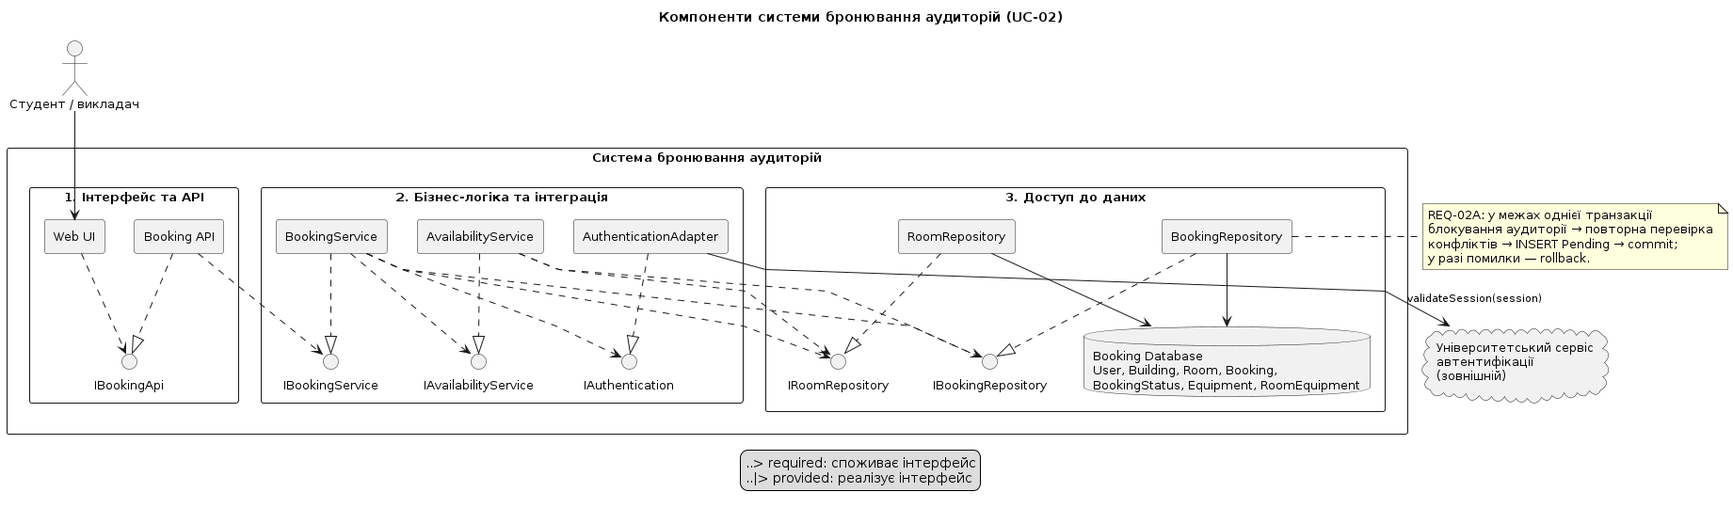
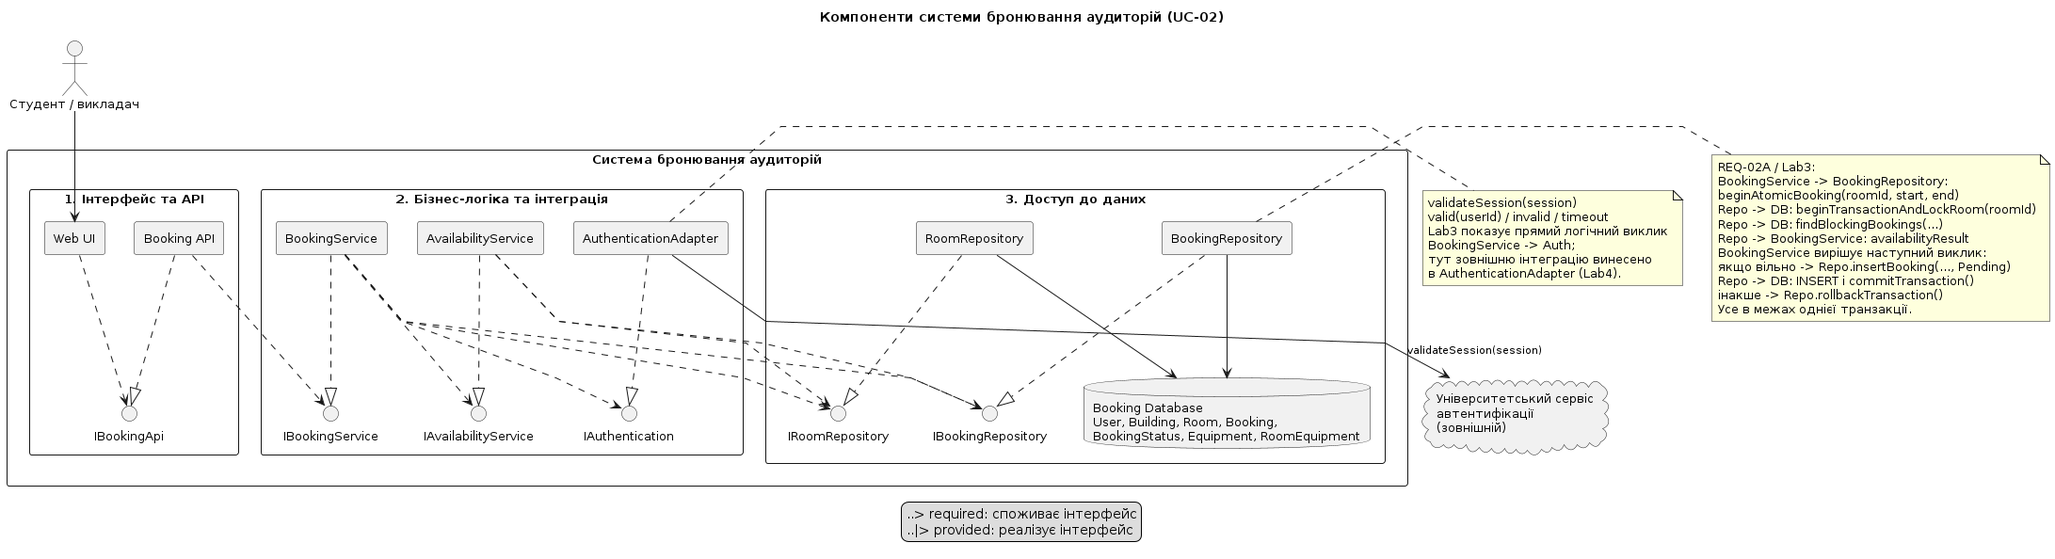
update AI usage documentation

diff --git a/lab5/spec.md b/lab5/spec.md
@@ -2,81 +2,58 @@
 
 **Студент:** Чакун Олександр  
 **Група:** ІМ-о51  
-**Тема:** Компонентна архітектура системи бронювання навчальних аудиторій
+**Предметна область:** бронювання навчальних аудиторій
 
-## 1. Призначення моделі
+## 1. Для чого потрібна діаграма
 
-У цій роботі розглядається архітектура системи бронювання навчальних аудиторій, яку я використовував у попередніх лабораторних. Основна задача — показати, на які компоненти розділена система, за що кожен із них відповідає та через які інтерфейси відбувається взаємодія. Для моделювання обрано UML Component Diagram у PlantUML.
+У завданні моделюється архітектура для UC-02 «Створити бронювання». Діаграма потрібна, щоб відокремити інтерфейс користувача, логіку бронювання, роботу з БД та зовнішню автентифікацію. Вона показує контракти між компонентами, а не реалізацію всіх методів.
 
-Головним прикладом є UC-02 — створення бронювання. Перед створенням нового запису система перевіряє користувача та доступність аудиторії на вибраний час. Нове бронювання має початковий статус `Pending`.
+## 2. Компоненти
 
-## 2. Компоненти та їхня відповідальність
-
-| Компонент | Призначення |
+| Компонент | Відповідальність |
 |---|---|
-| `Web UI` | Отримує дії студента або викладача, передає запити та відображає результат |
-| `Booking API` | Приймає звернення від інтерфейсу та передає їх до бізнес-логіки |
-| `BookingService` | Координує створення бронювання, автентифікацію, перевірку доступності та запис даних |
-| `AvailabilityService` | Перевіряє, чи не зайнята аудиторія в запитаний часовий інтервал |
-| `AuthenticationAdapter` | Звертається до зовнішнього університетського сервісу для перевірки сесії |
-| `BookingRepository` | Читає й записує бронювання; відповідає за атомарну повторну перевірку конфліктів та створення запису в одній транзакції |
-| `RoomRepository` | Надає дані про аудиторії з бази даних |
-| `Booking Database` | Зберігає сутності предметної області з першої лабораторної |
+| Web UI | Отримання даних від користувача й показ результату |
+| Booking API | Прийом запитів UI та передача їх сервісу |
+| BookingService | Керування UC-02: перевірка сесії, доступності, вибір гілки створення або відмови |
+| AvailabilityService | Попередня перевірка вільних аудиторій для пошуку |
+| AuthenticationAdapter | Виклик зовнішнього університетського сервісу автентифікації |
+| BookingRepository | Початок транзакції, блокування аудиторії, повторна перевірка, INSERT, commit/rollback |
+| RoomRepository | Читання інформації про аудиторії |
+| Booking Database | Збереження User, Building, Room, Booking, BookingStatus, Equipment, RoomEquipment |
 
-`Booking Database` містить `User`, `Building`, `Room`, `Booking`, `BookingStatus`, `Equipment` і `RoomEquipment`. Сервіси не звертаються до таблиць напряму: для цього використовуються репозиторії.
+Користувач працює через Web UI. Зовнішній університетський сервіс автентифікації перебуває за межею нашої системи.
 
-## 3. Інтерфейси та залежності
+## 3. Інтерфейси
 
-Інтерфейси на діаграмі представлені окремими UML-елементами `interface`. Компонент, який реалізує контракт, з’єднано з інтерфейсом зв’язком реалізації `..|>` (*provided*). Компонент, якому потрібен контракт, використовує залежність `..>` (*required*).
-
-| Інтерфейс | Хто використовує | Хто надає |
+| Контракт | Надає (provided) | Використовує (required) |
 |---|---|---|
-| `IBookingApi` | `Web UI` | `Booking API` |
-| `IBookingService` | `Booking API` | `BookingService` |
-| `IAvailabilityService` | `BookingService` | `AvailabilityService` |
-| `IAuthentication` | `BookingService` | `AuthenticationAdapter` |
-| `IBookingRepository` | `BookingService`, `AvailabilityService` | `BookingRepository` |
-| `IRoomRepository` | `AvailabilityService`, `BookingService` | `RoomRepository` |
+| `IBookingApi` | Booking API | Web UI |
+| `IBookingService` | BookingService | Booking API |
+| `IAvailabilityService` | AvailabilityService | BookingService |
+| `IAuthentication` | AuthenticationAdapter | BookingService |
+| `IBookingRepository` | BookingRepository | BookingService, AvailabilityService |
+| `IRoomRepository` | RoomRepository | BookingService, AvailabilityService |
 
-Залежності `..>` спрямовані від компонентів, які потребують функції, до відповідних інтерфейсів. Зв’язки реалізації `..|>` вказують, який компонент надає контракт. Конкретні методи кожного інтерфейсу на цьому етапі не деталізуються: завдання полягає в моделюванні архітектурних меж.
+У PlantUML `..|>` позначає реалізацію контракту (provided), а `..>` — залежність від контракту (required).
 
-## 4. Межа системи та зовнішня інтеграція
+## 4. Як проходить UC-02
 
-У прямокутнику «Система бронювання аудиторій» знаходяться власні компоненти застосунку та база даних. Студент або викладач взаємодіє із системою через `Web UI`.
+Після підтвердження даних `BookingService` перевіряє сесію через `IAuthentication`. `AuthenticationAdapter` викликає `validateSession(session)` і повертає `valid(userId)`, `invalid` або `timeout`. При відмові чи тайм-ауті бронювання не створюється.
 
-Університетський сервіс автентифікації розташований **поза межею системи**, оскільки його робота не належить до внутрішньої реалізації бронювання. `AuthenticationAdapter` надсилає `validateSession(session)` та обробляє результати `valid(userId)`, `invalid` або `timeout`. Так бізнес-логіка не залежить безпосередньо від деталей зовнішнього сервісу.
+Попередній пошук доступних аудиторій не резервує місце. Для підтвердження `BookingService` викликає `BookingRepository.beginAtomicBooking(roomId, start, end)`. Репозиторій виконує `beginTransactionAndLockRoom(roomId)` та `findBlockingBookings(...)`, повертаючи `availabilityResult`. Якщо вільно, `BookingService` окремо викликає `insertBooking(..., Pending)`, після чого репозиторій записує бронювання й виконує commit. Якщо конфлікт — `BookingService` викликає `rollbackTransaction()`. Це відповідає послідовності Lab3, а не єдиній операції `createBookingAtomically(...)`.
 
-## 5. Як створюється бронювання
+Блокуючі статуси визначаються через `BookingStatus.blocks_room`. Інтервали часу трактуються як `[start, end)`: 10:00–11:00 і 11:00–12:00 не конфліктують. Блокування рядка Room — один із можливих способів виконати REQ-02A, а не вибір конкретної СУБД.
 
-1. Користувач вибирає аудиторію та час у `Web UI`.
-2. `Web UI` передає запит через `Booking API` до `BookingService`.
-3. `BookingService` використовує `AuthenticationAdapter` для перевірки сесії.
-4. `AvailabilityService` перевіряє доступність через репозиторії. Враховуються бронювання, статус яких має `BookingStatus.blocks_room = true`.
-5. `BookingService` викликає `BookingRepository.createBookingAtomically(userId, roomId, start, end, Pending)`. Репозиторій у межах **однієї транзакції** блокує відповідну аудиторію, повторно перевіряє блокуючі бронювання і лише за відсутності конфлікту створює `Booking` зі статусом `Pending`. Якщо конфлікт є, транзакція скасовується, а новий запис не створюється.
-6. Результат повертається користувачу через API та інтерфейс.
+## 5. Критерії прийняття
 
-`AvailabilityService` використовується для попередньої перевірки доступності, але її результат **не замінює** фінальну перевірку в транзакції репозиторію. `BookingService` координує процес, а `BookingRepository` забезпечує атомарність збереження. Обрано модель блокування запису `Room` як приклад можливої реалізації; конкретна СУБД у завданні не визначена.
+- Є всі основні компоненти, БД і зовнішня система за межею застосунку.
+- Шість інтерфейсів мають одного постачальника та явних споживачів.
+- Створення бронювання у Lab5 узгоджується з викликами Lab3.
+- Уточнені результати автентифікації з Lab4.
+- БД охоплює сутності з Lab1, включно з Building.
+- Для REQ-02A повторна перевірка та запис залишаються в одній транзакції.
+- `components.puml` компілюється в PlantUML, а `components.png` згенерований із тієї ж версії файлу.
 
-Для перевірки перетину часових проміжків використовується підхід із Lab2: суміжні інтервали, наприклад 10:00–11:00 і 11:00–12:00, не конфліктують.
+## 6. Межі моделі
 
-## 6. Узгодженість із попередніми лабораторними
-
-- **Lab1 (ER-модель):** база даних містить ті самі сутності; власник бронювання визначається через `Booking.user_id`, а блокування — через `BookingStatus.blocks_room`.
-- **Lab2 (вимоги та Use Cases):** `BookingService` підтримує UC-02 та повторну перевірку доступності з REQ-02A. Окремий `AvailabilityService` відповідає за перевірку конфліктів.
-- **Lab3 (Sequence Diagram):** взаємодія UI, сервісу бронювання, репозиторіїв і БД зберігає ту саму послідовність відповідальностей; окремо показано зовнішню перевірку користувача.
-- **Lab4 (Activity Diagram):** архітектура дозволяє виконати перевірки, обробити відмову або тайм-аут автентифікації та завершити процес без створення `Booking`, якщо умови не виконані.
-
-## 7. Обґрунтування поділу на компоненти
-
-Я розділив бізнес-логіку та роботу з базою даних, щоб правила бронювання не залежали від конкретних SQL-запитів. Перевірку доступності виніс в окремий сервіс, оскільки вона потрібна не тільки під час створення бронювання, а й під час пошуку аудиторій. Для зовнішньої автентифікації використав адаптер, щоб у решті системи був один зрозумілий інтерфейс взаємодії.
-
-Такий поділ робить залежності між частинами системи чіткішими. Водночас ця діаграма є архітектурною моделлю, а не готовою реалізацією: конкретні технології бази даних, розгортання компонентів та детальні сигнатури методів тут не визначаються.
-
-## 8. Рішення за AUD-03
-
-У попередній версії діаграми було незрозуміло, хто саме відповідає за атомарність повторної перевірки та запису. Тепер відповідальність розподілено так: `BookingService` керує сценарієм UC-02, `AvailabilityService` надає попередню інформацію про зайнятість, а `BookingRepository` виконує перевірку конфлікту й запис у межах однієї транзакції. Це відображено в примітках до компонентів та в описі UC-02.
-
-## 9. Артефакти
-
-- Вихідний код діаграми: [`model/components.puml`](model/components.puml)
-- Зображення: [`renders/components.png`](renders/components.png)
+Це компонентна схема, тому вона не визначає конкретну СУБД, HTTP-маршрути, повні сигнатури всіх методів або спосіб розгортання. Напряму зовнішню автентифікацію Lab3 показує на рівні сценарію, а тут для неї виділений окремий адаптер.

diff --git a/lab5/DEFENSE.md b/lab5/DEFENSE.md
@@ -1,66 +1,46 @@
-# DEFENSE — Завдання 5: Архітектура (Component Diagram)
+# DEFENSE — Завдання 5: Component Diagram
 
 **Студент:** Чакун Олександр  
-**Група:** ІМ-о51  
-**Предметна область:** бронювання навчальних аудиторій
+**Група:** ІМ-о51
 
-## 1. Намір і критерії
+## 1. Що показує моя схема
 
-У п’ятій лабораторній я розглянув, з яких компонентів складається система бронювання аудиторій і як ці компоненти взаємодіють між собою. Перевіряв, щоб у UML Component Diagram були чітко показані межа системи, внутрішні залежності, provided/required інтерфейси та зовнішній сервіс автентифікації, а архітектура не суперечила попереднім роботам.
+Діаграма відділяє Web UI та API від бізнес-логіки й доступу до даних. Основний сценарій — UC-02, створення бронювання аудиторії. Я залишив університетську автентифікацію поза межею системи, бо нею керує зовнішній сервіс.
 
-## 2. Компоненти та межа системи
+## 2. Чому є окремі сервіси
 
-Усередині системи розташовані `Web UI`, `Booking API`, `BookingService`, `AvailabilityService`, `AuthenticationAdapter`, `BookingRepository`, `RoomRepository` і `Booking Database`. Студент або викладач працює через `Web UI`, а університетський сервіс автентифікації знаходиться поза межею системи.
+`BookingService` відповідає за послідовність перевірок і вирішує, чи можна продовжити створення бронювання. `AvailabilityService` потрібен для попереднього пошуку доступних аудиторій. Але результат пошуку не гарантує, що аудиторія залишиться вільною до підтвердження, тому потрібна повторна перевірка під час запису.
 
-- `Web UI` отримує дії користувача та показує результат.
-- `Booking API` передає запити до бізнес-логіки.
-- `BookingService` координує створення бронювання.
-- `AvailabilityService` виконує попередню перевірку доступності.
-- `AuthenticationAdapter` ізолює взаємодію із зовнішнім сервісом автентифікації.
-- `BookingRepository` повторно перевіряє конфлікти і створює бронювання в одній транзакції.
-- `RoomRepository` надає доступ до даних про аудиторії.
-- `Booking Database` зберігає сутності, визначені у Lab1.
+## 3. Навіщо репозиторії
 
-## 3. Інтерфейси та залежності
+`BookingRepository` працює з записами бронювань, а `RoomRepository` — із даними аудиторій. Завдяки цьому сервіси не звертаються до SQL напряму. Для БД у моделі вказані всі сутності Lab1: User, Building, Room, Booking, BookingStatus, Equipment, RoomEquipment.
 
-Я використав окремі UML-інтерфейси `IBookingApi`, `IBookingService`, `IAvailabilityService`, `IAuthentication`, `IBookingRepository` та `IRoomRepository`. Зв’язок `..|>` означає, що компонент реалізує інтерфейс (*provided*), а `..>` показує, що іншому компоненту потрібен цей інтерфейс (*required*).
+## 4. Як читати інтерфейси
 
-Такі залежності дозволяють відокремити бізнес-логіку від деталей збереження даних і зовнішньої автентифікації. Наприклад, `BookingService` залежить від контрактів репозиторію та перевірки доступності, а не від SQL-запитів напряму.
+`..|>` означає, що компонент реалізує інтерфейс (provided), а `..>` — що компонент використовує інтерфейс (required). Наприклад, `BookingService` надає `IBookingService`, а `Booking API` залежить від нього. Усього шість інтерфейсів, кожен має одного постачальника.
 
-## 4. Топ-3 розбіжності та виправлення
+## 5. Атомарність та відповідність Lab3
 
-| Пункт | Що було неузгоджено | Що виправлено | SHA |
-|---|---|---|---|
-| AUD-01 | У переліку сутностей `Booking Database` не було `Building` з ER-моделі Lab1 | Додано `Building` до діаграми та специфікації | `256e6ac` |
-| AUD-02 | Інтерфейси були переважно текстовими підписами залежностей | Створено окремі provided/required UML-інтерфейси та уточнено зв’язки | `b3a23be` |
-| AUD-03 | Не було чітко видно, хто відповідає за атомарне створення бронювання | Уточнено ролі `BookingService`, `AvailabilityService` та `BookingRepository` | `95f1327` |
+Це було головне архітектурне питання. У Sequence Diagram Lab3 `BookingService` викликає `beginAtomicBooking`, потім за результатом `availabilityResult` окремо викликає `insertBooking` або `rollbackTransaction`. `BookingRepository` відкриває транзакцію, блокує аудиторію, читає конфліктні бронювання і виконує запис чи відкат. Для створеного бронювання використовується статус `Pending`.
 
-Після виправлень оновлено зображення Component Diagram: коміт `62d89d5`. Детальніший опис перевірки міститься у [`AUDIT.md`](AUDIT.md).
+Важливо, що повторна перевірка і запис не повинні бути двома незалежними операціями БД. Інакше між ними інший користувач може забронювати той самий час, як у SC-07. Блокування Room — запропонований спосіб реалізації, а не вимога до певної бази даних.
 
-## 5. Ключове архітектурне рішення та альтернативи
+Альтернативою була одна велика операція `createBookingAtomically(...)`, яка сама приймає всі рішення. Я не використовую її в остаточній схемі, бо в Lab3 керування гілками вже показане на рівні `BookingService`.
 
-Основним рішенням було розділити керування сценарієм бронювання і транзакційну роботу з базою даних. Я розглядав варіант, коли `BookingService` сам перевіряє конфлікти й виконує запис, але це змішувало б бізнес-логіку з доступом до даних. У підсумковій моделі `BookingService` координує UC-02, `AvailabilityService` робить попередню перевірку, а `BookingRepository` відповідає за повторну перевірку та створення `Booking` у межах однієї транзакції.
+## 6. Автентифікація та відмінність від Lab3
 
-Це важливо, тому що після попереднього пошуку аудиторію може зайняти інший користувач. Транзакційна перевірка перед створенням запису має не допустити двох конфліктних бронювань. Механізм `lockRoom(roomId)` на діаграмі показаний як обраний приклад реалізації, а не як вимога до конкретної СУБД.
+У Lab3 `BookingService` звертається до зовнішнього Auth безпосередньо — це логічна послідовність повідомлень. У Lab5 між ними є `AuthenticationAdapter`. Він приховує деталі зовнішнього виклику `validateSession(session)` і повертає `valid(userId)`, `invalid` або `timeout`. Таке розділення відповідає процесу з Lab4.
 
-Також можна було б напряму підключити бізнес-логіку до університетського сервісу автентифікації. Натомість використано `AuthenticationAdapter`, щоб зовнішня система залишалася за межею нашого застосунку, а її результати `valid(userId)`, `invalid` і `timeout` оброблялися через окремий компонент.
+## 7. Підсумок аудиту
 
-## 6. Узгодженість із Lab1–Lab4
+| Пункт | Помилка та виправлення | Коміт |
+|---|---|---|
+| AUD-01 | Додано `Building` до переліку даних | `256e6ac` |
+| AUD-02 | Інтерфейси винесено з підписів стрілок в окремі UML-елементи | `b3a23be` |
+| AUD-03 | Визначено, хто координує бронювання, а хто забезпечує транзакцію | `95f1327` |
 
-- **Lab1 — ER-модель:** у базі даних збережено `User`, `Building`, `Room`, `Booking`, `BookingStatus`, `Equipment` і `RoomEquipment`. Конфлікти залежать від `BookingStatus.blocks_room`.
-- **Lab2 — вимоги та Use Cases:** архітектура підтримує UC-02 і REQ-02A — повторну перевірку доступності перед створенням бронювання.
-- **Lab3 — Sequence Diagram:** компоненти відповідають учасникам взаємодії: інтерфейс, сервіс бронювання, репозиторій, база даних та зовнішня автентифікація.
-- **Lab4 — Activity Diagram:** показані компоненти дозволяють виконати перевірки, обробити конфлікт, невалідну сесію чи тайм-аут і завершити процес без створення запису, коли умови не виконані.
+Останній лейаут зробили читабельнішим, але через це частина пояснення транзакції зникла з діаграми. Після зауважень повернули назви операцій у примітку, а в `AUDIT.md` уточнили опис актуальної моделі.
 
-## 7. Опис перевірки
+## 8. Як перевірити роботу
 
-Під час перевірки я зіставив перелік сутностей бази даних з першою лабораторною, інтерфейси — із залежностями компонентів, а розподіл відповідальностей — із вимогами та сценаріями попередніх робіт. Після аудиту було уточнено перелік даних, спосіб відображення інтерфейсів та відповідальність за транзакційне створення бронювання. Виправлення зафіксовано окремими комітами, а після них оновлено PNG-рендер діаграми.
-
-## 8. Матеріали для здачі
-
-- [Component Diagram (PlantUML)](model/components.puml)
-- [PNG-рендер](renders/components.png)
-- [Специфікація](spec.md)
-- [Аудит](AUDIT.md)
-- [Документація використання ChatGPT](ai/prompts.md)
-- [Папка Lab5 у GitHub](https://github.com/Oleksandr-C-S/MAVPZ/tree/main/lab5)
+Відкрити `model/components.puml` у PlantUML і перевірити шість інтерфейсів, межу системи, примітки про `beginAtomicBooking`, блокування/rollback і результати автентифікації. Згенерований із цієї версії PNG має збігатися з `renders/components.png`.

diff --git a/lab5/ai/prompts.md b/lab5/ai/prompts.md
@@ -1,4 +1,4 @@
- # Використання ChatGPT — Завдання 5
+# Використання ChatGPT — Завдання 5
 
 **Студент:** Чакун Олександр  
 **Група:** ІМ-о51  
@@ -6,29 +6,88 @@
 
 ## Для чого використовував ChatGPT
 
-Для п'ятої лабораторної продовжив тему бронювання навчальних аудиторій із попередніх робіт. ChatGPT використовував для організації роботи, підготовки варіантів PlantUML-діаграми й текстових документів, а також для пошуку недоліків. Діаграму переглядав у VS Code, зміни додавав до GitHub окремими комітами.
+У п'ятій лабораторній продовжив роботу над системою бронювання аудиторій. Використовував ChatGPT, щоб розібратися з вимогами до компонентної діаграми, отримати варіанти PlantUML-коду та документації, перевірити знайдені помилки й узгодити архітектуру з попередніми роботами. Частину файлів ChatGPT підготував у вигляді готових чернеток. Я переглядав результат у VS Code та додавав потрібні файли до репозиторію.
 
-## Основні звернення під час роботи
+## Приклади реальних звернень
 
-1. **Структура та діаграма.** Попросив перейти до Завдання 5, підготувати структуру папки `lab5` і початковий варіант `components.puml`. Отримав модель із Web UI, Booking API, сервісами, репозиторіями, базою даних та зовнішнім сервісом автентифікації.
-2. **Перевірка вигляду.** Надіслав зображення діаграми із запитанням «Це правильна діаграма?». ChatGPT звернув увагу на перетини ліній, накладання підписів і складне відображення інтерфейсів. Потім попросив виправлений файл і переглянув оновлений варіант.
-3. **Специфікація й аудит.** Попросив підготувати `spec.md` та наступний файл для аудиту. Отримав чернетки з описом компонентів, залежностей і трьох питань, які потребували уточнення.
-4. **Виправлення моделі.** Послідовно отримав оновлені файли для AUD-01, AUD-02 та AUD-03. Зміни стосувалися повноти переліку сутностей, явного зображення інтерфейсів і розподілу відповідальності за атомарне бронювання.
-5. **Фінальне оформлення.** Оновив PNG після змін діаграми, знайшов SHA комітів на GitHub і використав їх для документації аудиту. Також попросив допомогти з оформленням README та цього журналу.
+Нижче — вибрані дослівні повідомлення з розмови та короткі фрагменти відповідей. Це не повний експорт листування.
 
-## Що змінилося після перевірки
+**1. Відображення інтерфейсів (AUD-02)**
 
-- **AUD-01.** У переліку даних бракувало `Building` із першої лабораторної. Додав його до опису архітектури. Коміт: `256e6ac`.
-- **AUD-02.** Інтерфейси раніше читалися переважно як підписи стрілок. Уточнив їх як окремі provided/required елементи. Коміт: `b3a23be`.
-- **AUD-03.** Уточнив, що `BookingService` координує бронювання, `AvailabilityService` перевіряє доступність, а `BookingRepository` забезпечує повторну перевірку та запис у транзакції. Коміт: `95f1327`.
-- **Рендер.** Після виправлень оновив `renders/components.png`. Коміт: `62d89d5`.
+Мій запит:
+
+> Наступний
+
+Фрагмент відповіді ChatGPT:
+
+> Наступний крок — виправлення AUD-02 у лабораторній №5: відображення provided/required інтерфейсів.
+
+Отримав оновлені `components.puml` і `spec.md`. Потрібно було показати інтерфейси окремими UML-елементами, а не лише підписами стрілок.
+
+**2. Транзакція бронювання (AUD-03)**
+
+Мій запит:
+
+> Наступний
+
+Фрагмент відповіді ChatGPT:
+
+> Наступний крок — виправлення AUD-03 у лабораторній №5.
+
+Отримав варіант розподілу відповідальності між `BookingService`, `AvailabilityService` і `BookingRepository`. Пізніше після відгуку викладача виявилося, що ці операції треба точніше узгодити з Sequence Diagram із Lab3.
+
+**3. Читабельність діаграми**
+
+Мій запит:
+
+> зроби
+
+Фрагмент відповіді ChatGPT:
+
+> Готово! Я переробив діаграму лабораторної №5, щоб компоненти, інтерфейси та зв’язки було легше читати.
+
+Отримав перероблене розташування компонентів. При цьому важливо було не втратити інтерфейси, зовнішню автентифікацію і логіку повторної перевірки доступності.
+
+**4. Перевірка перед здачею**
+
+Мій запит:
+
+> go
+
+Фрагмент відповіді ChatGPT:
+
+> Фінальна перевірка лабораторної №5
+
+Перевіряли структуру `lab5`, відповідність PNG файлу `.puml` і наявність документації. З'ясувалося, що зображення слід експортувати саме з актуального PlantUML-коду.
+
+**5. Перевірка після зауважень викладача**
+
+Мій запит:
+
+> Чи обов'язково щось міняти в prompts.md ? Чи можна його залишити таким?
+
+Фрагмент відповіді ChatGPT:
+
+> Так, `prompts.md` обов'язково потрібно доповнити.
+
+Після цього почав доповнювати журнал конкретними прикладами звернень замість загального переказу. Окремо звернув увагу на вимогу викладача щодо самостійного написання `spec.md` і `DEFENSE.md`.
+
+## Що було виправлено під час роботи
+
+- Додав до переліку сутностей бази даних `Building`, щоб він не суперечив ER-моделі з Lab1.
+- Уточнив provided/required інтерфейси на компонентній діаграмі.
+- Розібрав відмінність між попередньою перевіркою доступності та повторною перевіркою під час транзакції.
+- Переробляв розташування компонентів, тому що спочатку стрілки та підписи накладалися.
+- Після зауважень викладача повернувся до Lab3: `BookingService` керує послідовністю операцій, а `BookingRepository` відповідає за роботу з даними й транзакцією. Нові компоненти Lab5 потрібно відрізняти від учасників старих sequence-діаграм.
 
 ## Мій фідбек
 
-Для мене тут найважливішим було не просто намалювати блоки, а показати, як вони пов'язані з тим, що вже описано в перших чотирьох лабораторних. Спочатку діаграма вийшла перевантаженою: стрілки перетиналися, а назви інтерфейсів було складно розібрати. Тому варіант із простішим розташуванням виявився зручнішим.
+У цій лабораторній для мене найскладнішим було не саме написання PlantUML, а те, щоб схема не суперечила попереднім роботам. Коли на діаграмі з'явилися інтерфейси, репозиторії та зовнішня автентифікація, стало складніше зрозуміло розташувати всі зв'язки.
 
-Під час аудиту звернув увагу на три моменти. По-перше, у базі даних потрібно згадати `Building`, бо ця сутність уже є в ER-моделі. По-друге, provided/required інтерфейси краще показати окремо, а не залишати лише текст на стрілках. По-третє, варто чітко розділити логіку сервісів і транзакційну роботу з базою даних.
+Особливо довелося розбиратися з бронюванням аудиторії, коли два користувачі можуть вибрати один і той самий час. Перевірка доступності під час пошуку не гарантує, що аудиторія буде вільною на момент створення бронювання. Тому важливо ще раз перевірити конфлікти в межах транзакції.
 
-Останній пункт пов'язаний із ситуацією, коли два користувачі майже одночасно бронюють ту саму аудиторію. Якщо після перевірки доступності просто створити запис, може виникнути конфлікт. Тому в моделі повторна перевірка і створення `Booking` розглядаються як одна транзакційна операція.
+ChatGPT допомагав із варіантами діаграми, пошуком помилок і чернетками пояснень. З цієї роботи я зрозумів, що після зміни діаграми потрібно знову звіряти `spec.md`, `AUDIT.md` і `DEFENSE.md`, а не залишати опис від попередньої версії. Також треба перевіряти, чи згенерований PNG точно відповідає вихідному `.puml`.
 
-ChatGPT допомагав готувати чернетки та знаходити місця, які потрібно уточнити. Для перевірки результату використовував PlantUML Preview і історію комітів GitHub.
+## Примітка
+
+У цьому файлі наведено вибрані дослівні запити й короткі уривки відповідей. Повний журнал листування тут не відтворено. Текст фідбеку варто звірити з власними висновками перед здачею; `spec.md` і `DEFENSE.md` мають відповідати вимозі викладача щодо самостійного авторства.

diff --git a/lab5/AUDIT.md b/lab5/AUDIT.md
@@ -14,10 +14,10 @@
 |---|---|---|
 | UI → API | `Web UI` використовує `IBookingApi` у `Booking API` | Відповідає поділу інтерфейсу та обробки запитів |
 | API → бізнес-логіка | `Booking API` залежить від `BookingService` | Відповідає UC-02 |
-| Перевірка доступності | `BookingService` викликає `AvailabilityService`; сервіс читає бронювання та аудиторії через репозиторії | Атомарність уточнено: BookingRepository повторно перевіряє конфлікти й створює Booking в одній транзакції |
+| Перевірка доступності | `BookingService` викликає `AvailabilityService`; сервіс читає бронювання та аудиторії через репозиторії | Lab3: BookingService керує викликами beginAtomicBooking → insertBooking або rollbackTransaction; BookingRepository виконує блокування, повторну перевірку та запис у межах однієї транзакції |
 | Доступ до даних | `BookingRepository` і `RoomRepository` звертаються до БД | Відділено від сервісного рівня |
 | Автентифікація | `AuthenticationAdapter` звертається до університетського сервісу поза межею системи | Зовнішня інтеграція відокремлена |
-| Результати автентифікації | `valid(userId)`, `invalid`, `timeout` | Узгоджуються з розгалуженнями Lab4 |
+| Результати автентифікації | `valid(userId)`, `invalid`, `timeout` у примітці до `AuthenticationAdapter` | Узгоджуються з розгалуженнями Lab4 |
 | Початковий статус | У примітці вказано `Pending` | Узгоджується з прийнятим рішенням Lab3 |
 
 ## 3. Топ-3 знайдені розбіжності та уточнення
@@ -42,7 +42,7 @@
 
 - **Джерела:** Lab2 містить REQ-02A щодо повторної перевірки доступності перед створенням `Booking`; Lab3 та Lab4 показують транзакційну перевірку й створення запису. У компонентній моделі `BookingService` звертається до `AvailabilityService` і `BookingRepository`, однак із самої діаграми не зрозуміло, хто забезпечує одну транзакційну межу для перевірки й запису.
 - **Чому це важливо:** окрема перевірка доступності без гарантії узгодженості із записом може допустити конкурентні бронювання.
-- **Виправлення:** в `components.puml` і `spec.md` закріплено ролі: `BookingService` координує UC-02; `AvailabilityService` виконує попередню перевірку; `BookingRepository` повторно перевіряє конфлікти та створює `Booking` в одній транзакції через `createBookingAtomically(...)`.
+- **Виправлення:** в `components.puml` і `spec.md` закріплено ролі: `BookingService` координує UC-02 та послідовність `beginAtomicBooking(...)` → `insertBooking(...)` або `rollbackTransaction()` (як у Lab3); `BookingRepository` виконує `beginTransactionAndLockRoom`, повторну перевірку `findBlockingBookings`, INSERT та commit/rollback у межах однієї транзакції. Одна монолітна операція `createBookingAtomically(...)` у фінальній моделі не використовується.
 - **Стан:** виправлено.
 - **SHA виправлення:** `95f1327`.
 
@@ -50,6 +50,10 @@
 
 `Web UI`, `Booking API`, `BookingService`, `AvailabilityService`, `AuthenticationAdapter`, репозиторії та `Booking Database` розташовані всередині системи. Університетський сервіс автентифікації — зовні. Це відповідає відокремленню власної логіки бронювання від зовнішньої автентифікації.
 
-## 5. Висновок
+## 5. Перевірка останнього макета після аудиту
 
-Під час аудиту було знайдено та виправлено три розбіжності: неповний перелік сутностей БД, неявне подання інтерфейсів та невизначену межу атомарної операції. Виправлення зафіксовані окремими комітами, а після них створено новий PNG-рендер `renders/components.png` (коміт `62d89d5`). 
+Після комітів трьох виправлень було змінено компонування діаграми (зокрема `ada1ffd` і `783a579`, зазначені у відгуку викладача). У проміжному варіанті зникли деталі `lockRoom`, результати автентифікації та явна послідовність викликів із Lab3. У цій ревізії повернено `beginAtomicBooking(...)`, `beginTransactionAndLockRoom(...)`, `findBlockingBookings(...)`, `insertBooking(...)`/`rollbackTransaction()` і `valid(userId)`/`invalid`/`timeout` у примітки моделі. Це уточнення не змінює історичні SHA AUD-01..03. Новий PNG має бути згенерований з актуального `components.puml`; SHA цього виправлення можна встановити тільки після коміту.
+
+## 6. Висновок
+
+Під час аудиту було знайдено та виправлено три розбіжності: неповний перелік сутностей БД, неявне подання інтерфейсів та невизначену межу атомарної операції. Виправлення зафіксовані окремими комітами, PNG після трьох початкових виправлень був у коміті `62d89d5`; для цієї нової ревізії PNG необхідно повторно експортувати. SHA наступного коміту поки невідомий. 

diff --git a/lab5/README.md b/lab5/README.md
@@ -28,7 +28,7 @@
 | Шлях | Вміст |
 |---|---|
 | [`model/components.puml`](model/components.puml) | Вихідний текст UML Component Diagram |
-| [`renders/components.png`](renders/components.png) | Зображення діаграми, згенероване з PlantUML |
+| `renders/components.png` | PNG слід згенерувати з актуального `model/components.puml` у VS Code перед комітом |
 | [`spec.md`](spec.md) | Компоненти, інтерфейси, межі та архітектурні рішення |
 | [`AUDIT.md`](AUDIT.md) | Перевірка відповідності й три виправлення |
 | [`DEFENSE.md`](DEFENSE.md) | Пояснення архітектури для захисту |
@@ -38,7 +38,7 @@
 
 - **Lab1:** збережено перелік сутностей ER-моделі та правило `BookingStatus.blocks_room`.
 - **Lab2:** підтримано UC-02 та REQ-02A — атомарну повторну перевірку доступності.
-- **Lab3:** компонентні залежності підтримують послідовність UI → сервіс → репозиторій → база даних; перевірка сесії відбувається через зовнішній сервіс.
+- **Lab3:** компонентні залежності підтримують beginAtomicBooking → insertBooking/rollbackTransaction; в Lab3 Auth — логічний учасник, у Lab5 доступ до нього деталізовано через AuthenticationAdapter.
 - **Lab4:** передбачено обробку успішного підтвердження, конфлікту та відмови/тайм-ауту автентифікації.
 
 ## Аудит та зміни
@@ -50,3 +50,11 @@
 | AUD-03 | Уточнено атомарне створення бронювання в `BookingRepository` | `95f1327` |
 | Рендер | PNG оновлено після виправлень | `62d89d5` |
 
+
+## Уточнення після відгуку AI-CHECK
+
+Після фінального компонування повернено примітки з деталями транзакції Lab3 (`beginAtomicBooking`, `beginTransactionAndLockRoom`, `insertBooking` або `rollbackTransaction`) і результатами зовнішньої автентифікації (`valid(userId)`, `invalid`, `timeout`). Зміни треба відрендерити в PlantUML, оновити PNG та записати справжній SHA у `AUDIT.md`. `spec.md` і `DEFENSE.md` на цьому етапі — чернетки: їхній остаточний текст студент має підготувати самостійно за вимогою викладача.
+
+## Уточнення після зауважень викладача
+
+Для узгодженості з Lab3 `BookingService` координує `beginAtomicBooking` → `insertBooking` або `rollbackTransaction`, а `BookingRepository` відповідає за операції всередині транзакції. Зовнішню перевірку сесії з Lab3 у компонентній моделі обслуговує `AuthenticationAdapter`.
